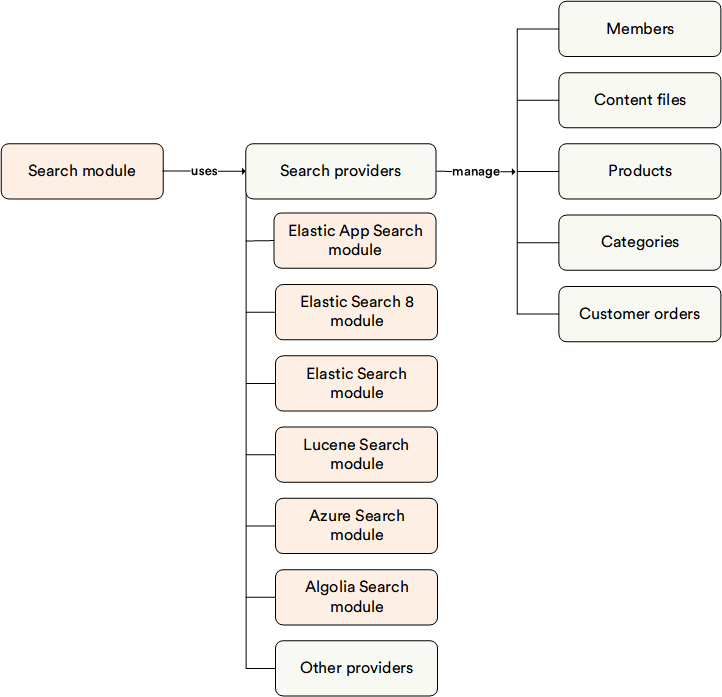
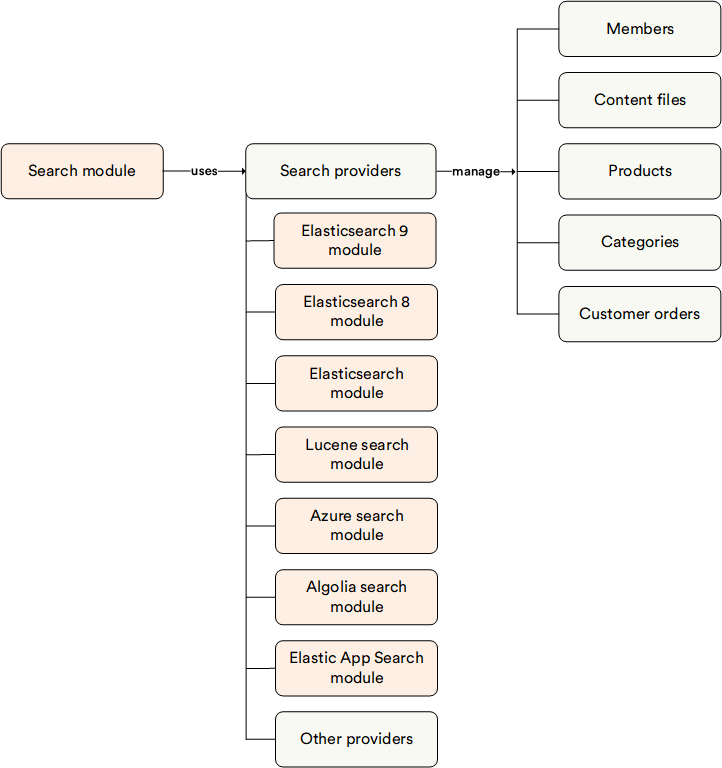
Sprinte 27-13 updates

diff --git a/storefront/developer-guide/docs/spa-architecture-for-seo-and-404-handling.md b/storefront/developer-guide/docs/spa-architecture-for-seo-and-404-handling.md
@@ -1,0 +1,102 @@
+# SPA Architecture for SEO and 404 Handling
+
+Virto Commerce Storefront is built as a Single Page Application (SPA) using Vue.js. This architecture provides fast navigation and app-like responsiveness while maintaining SEO compatibility through a combination of clean URLs, dynamic rendering, and fallback routing.
+
+The Virto SPA architecture loads a single **index.html** file and dynamically renders content using GraphQL. Static assets such as JavaScript, CSS, images, and sitemap files are served directly by the CDN or static content server.
+
+The request flow is as follows:
+
+1. If a URL matches a static file, that file is returned.
+1. If not, the request is routed to **index.html** with an HTTP 200 status.
+1. The Vue app interprets the path (via the HTML5 History API) and renders the correct page content (e.g., **/category/widgets**).
+
+This enables clean, shareable URLs and allows users to navigate or refresh pages without breaking.
+
+![SPA Frontend architecture](media/frontend-application-architecture.png)
+
+It provides the following benefits:
+
+* Clean URLs using history mode
+* Deep linking and bookmarking
+* Fast client-side navigation
+
+!!! note
+    Google recommends using the History API for SPAs to enable crawlable URLs.
+
+
+## SEO and dynamic rendering with Prerender.io
+
+One challenge of SPAs is that search engine bots may not fully execute JavaScript, which limits content visibility. Virto solves this using [Prerender](https://prerender.io), a dynamic rendering solution that generates static HTML snapshots for bots. In other words, search engines see a **server-side rendered** version, while normal users get the client-side SPA. This hybrid approach delivers the best of both worlds: crawlers see meaningful HTML content (page titles, meta tags, product info), and users still enjoy a fast single-page experience. 
+
+This works as follows:
+
+* A reverse proxy (e.g., Nginx) sits in front of the storefront.
+* If a request comes from a known bot (Googlebot, Facebook, etc.), it is routed to Prerender.
+* Prerender returns a fully rendered HTML version of the page.
+* Normal users continue to get the SPA experience.
+
+This hybrid approach ensures bots receive meaningful content while keeping performance high for users.
+<br>
+
+![Readmore](media/readmore.png){: width="25"} [Setting up Prerender.io with Azure Application Gateway](../../../platform/developer-guide/Tutorials-and-How-tos/How-tos/setting-up-prerender-io-with-azure-app-gateway)
+<br>
+
+It provides the following benefits:
+
+* Full HTML content for bots (title, meta, schema).
+* No major changes required to the SPA architecture.
+* Simpler than full server-side rendering (SSR).
+
+
+## Handling 404s in SPA
+
+Because Virto always serves **index.html** even for unknown URLs, the HTTP response is always 200 — even when the page doesn't exist. The Vue app handles these cases and displays a custom 404 page (e.g., the CMS page with slug **/404**). However, that error page is a **soft 404**: the browser shows an error message, but the server has already sent a 200 OK status. This is a common SPA behavior. It ensures the user sees an error page (and can navigate from it), but from the server’s point of view the request was fulfilled. 
+
+Virto’s current SPA setup can’t immediately send a 404 status from the server for a missing route, because that would break the SPA flow (the load balancer simply forwarded the request to the app). In practice, when a page isn’t found the SPA shows the 404 content, but Googlebot still sees a 200 response – what Google calls a soft 404. 
+
+Google suggests workarounds: for example, after determining content is missing, use a client redirect to a dedicated error URL that does return 404 (for instance, **/not-found** handled by the server) or add a **noindex** meta tag on the error page. 
+
+![Workaround](media/workarounds.png)
+
+!!! note
+    Virto Cloud is working on support for server-side HTTP 404 responses based on route handling rules (e.g., custom Nginx logic).
+
+
+## Tracking and fixing broken links
+
+Broken links harm SEO and user experience. Virto provides tools to detect and manage them effectively:
+
+* [Tracking with Google Analytics 4.](#tracking-with-google-analytics-4)
+* [Using broken links management tool.](#using-broken-links-management-tool)
+
+### Tracking with Google Analytics 4
+
+* GA4 automatically logs pageviews, including visits to your 404 page
+* Use a unique title (e.g., "Page not found") to filter 404s
+* Use GA4 Engagement reports to identify broken URLs
+
+In practice, you’d filter GA4 by the 404 page’s title or URL, revealing which missing-URL users (or bots) tried to access. [Analytics Mania](https://www.analyticsmania.com/post/ga4-404-error-tracking) and [MeasureSchool](https://measureschool.com/track-404-ga4) have guides on using GA4 for 404 tracking that explain this in detail.
+
+### Using broken links management tool
+
+[This tool](../../../platform/user-guide/seo/managing-broken-links) logs any 404 hits and lets the team mark each one for action. For example, you can ignore harmless 404s, or set up 301/302 redirects. Virto supports internal redirects (redirecting to another page in the store) or external redirects. There’s also an option to use load balancer (or CDN) rules: for certain legacy URLs you can force a real HTTP 404 instead of letting the SPA catch it, if needed for SEO or compliance. 
+
+In short, the workflow is: 
+
+1. Track broken links via GA4.
+1. Review them in the tool.
+1. Either ignore, redirect to a new URL, or explicitly return a 404 status. 
+
+This flexibility helps marketing teams fix SEO issues without changing code.
+
+
+## Alignment with best practices
+
+Overall, Virto’s SPA frontend aligns with current SEO best practices for modern sites. By using clean URLs (History API) and ensuring every page is reachable at a unique path, it meets Google’s recommendation to avoid hash-based routes. By integrating a pre-rendering service, it gives crawlers HTML content to index without sacrificing user experience. The SPA’s fallback to a 200-status index page is a known compromise, but Google explicitly acknowledges this pattern and suggests mitigating it via redirects or noindex tags. With GA4 and Virto’s broken-links tool, teams have visibility into **soft 404s** and can correct them through redirects (which is actually recommended over leaving **soft 404s**) or by adjusting their content.
+
+Virto’s frontend serves static files directly and routes all other requests through the SPA (**index.html**), giving smooth in-app navigation and shareable deep links. [Prerender](http://prerender.io/)  is used to intercept bots and serve SEO-friendly HTML snapshots. Unresolved URLs still return 200+SPA 404 content (a soft 404) by default, but tools like GA4 tracking and the built-in broken links manager help teams detect and handle these cases (via redirects or ignore rules). This architecture strikes a balance between an app-like storefront and SEO needs, following guidelines from Google and SEO experts.
+
+
+## Avoiding stale templates
+
+To prevent outdated **.html** templates from being served, make sure your custom module uses the updated **webpack.config.js**. The latest setup embeds Vue templates directly into **app.js**, ensuring that the SPA always renders fresh, up-to-date content—critical for both user experience and SEO rendering via services like Prerender.

diff --git a/platform/user-guide/docs/search/overview.md b/platform/user-guide/docs/search/overview.md
@@ -11,7 +11,8 @@ The **Search** module (called **Search Index** in the Platform menu) provides a 
 
 The Search module defines common abstractions for indexed search functionality across various search engines, providing flexibility and scalability for e-commerce search solutions. The Virto Commerce Platform is search provider agnostic, allowing different search modules to be installed separately to better meet user preferences. Create a custom search provider to integrate with the search engine or choose from a range of well-know search engines:
 
-* [Elastic Search 8](https://github.com/VirtoCommerce/vc-module-elastic-search-8): Version compatible with Elasticsearch 8.x. For driving innovation like semantic and hybrid search.
+* [Elasticsearch 9](https://github.com/VirtoCommerce/vc-module-elastic-search-9): Latest-generation provider built on the official .NET Elasticsearch client, compatible with Elasticsearch 9.x and 10.x (including Elastic Cloud deployments).
+* [Elasticsearch 8](https://github.com/VirtoCommerce/vc-module-elastic-search-8): Supports [Elasticsearch 8.x and 9.x](../../../developer-guide/Fundamentals/Indexed-Search/integration/elastic-search-8). 
 * [Elastic App Search](https://github.com/VirtoCommerce/vc-module-elastic-app-search): Preferred search provider with rich no-code search customization and analytics tools.
 * [Lucene](https://github.com/VirtoCommerce/vc-module-lucene-search): Recommended for local development mode.
 * [Elastic Search](https://github.com/VirtoCommerce/vc-module-elastic-search): Version compatible with Elasticsearch 7.x.

diff --git a/platform/user-guide/docs/elastic-search-8/overview.md b/platform/user-guide/docs/elastic-search-8/overview.md
@@ -1,6 +1,6 @@
-# Elastic Search 8
+# Elasticsearch 8
 
-The Virto Commerce **Elastic Search 8** module serves as a search engine for the Search module. It is the most commonly used search engine among Virto Commerce users.
+The Virto Commerce **Elasticsearch 8** module serves as a search engine for the Search module. It is the most commonly used search engine among Virto Commerce users.
 
 [![Source code](media/source_code.png)](https://github.com/VirtoCommerce/vc-module-elastic-search-8/)
 
@@ -8,13 +8,13 @@ The Virto Commerce **Elastic Search 8** module serves as a search engine for the
 
 ## Key features
 
-With the Elastic Search 8 module, you can perform:
+With the Elasticsearch 8 module, you can perform:
 
 * Full-text search with new .NET client for Elasticsearch.
 * [Semantic search](../../../developer-guide/Fundamentals/Indexed-Search/integration/semantic-search).
 * Hybrid mode search.
 * Third party ML models support.
 
-The diagram below illustrates the functionality of the Elastic Search 8 module:
+The diagram below illustrates the functionality of the Elasticsearch 9 module:
 
 ![Key entities](media/key-entities.png)

diff --git a/platform/developer-guide/docs/Fundamentals/Indexed-Search/integration/elastic-search-8.md b/platform/developer-guide/docs/Fundamentals/Indexed-Search/integration/elastic-search-8.md
@@ -12,7 +12,7 @@ The module supports the following deployment options:
 
 !!! info
 
-    As of version [3.815.0](https://github.com/VirtoCommerce/vc-module-elastic-search-8/releases/tag/3.815.0), the Virto Commerce Elasticsearch module supports Elasticsearch 8 and 9.
+    As of version [3.815.0](https://github.com/VirtoCommerce/vc-module-elastic-search-8/releases/tag/3.815.0), the Virto Commerce Elasticsearch 8 module supports Elasticsearch 8 and 9.
 
     Virto Commerce follows the official Elasticsearch language client compatibility guidelines: language clients are **forward compatible** across minor versions within the same or next major Elasticsearch version.
 
@@ -65,6 +65,6 @@ The provider performs full-text keyword searches on documents, optionally with f
 ********
 
 <div style="display: flex; justify-content: space-between;">
-    <a href="../../search/faceted-search">← Faceted search</a>
+    <a href="../elastic-search-9">← Elasticsearch 9 overview</a>
     <a href="../semantic-search">Semantic search →</a>
 </div>

diff --git a/platform/developer-guide/docs/Fundamentals/PageBuilder/asset.md b/platform/developer-guide/docs/Fundamentals/PageBuilder/asset.md
@@ -12,7 +12,18 @@ The **AssetFile** object serves as the **data model** for file upload requests a
 
 When uploading assets, each file is converted to an **AssetFile** and passed to the upload service, which is configured via the **settings.json** file.
 
-**Example:** 
+## Interface
+
+```ts
+export interface AssetFile extends File {
+    data?: any;                // Optional metadata from the component's descriptor
+    url?: string;              // Full URL where the file is stored
+    previewUrl: string | null; // URL for previewing the file (e.g., image thumbnail)
+    assetName: string;         // Original or assigned name of the file
+}
+```
+
+## Example 
 
 ```json title="settings.json"
 {
@@ -51,3 +62,13 @@ This response is then mapped to:
 ```
 
 which is assigned to the `url` field of the **AssetFile**.
+
+
+<br>
+<br>
+********
+
+<div style="display: flex; justify-content: space-between;">
+    <a href="../component-context">← Component context </a>
+    <a href="../calendar">Controls →</a>
+</div>

diff --git a/platform/user-guide/docs/elastic-search-9/overview.md b/platform/user-guide/docs/elastic-search-9/overview.md
@@ -1,0 +1,20 @@
+# Elasticsearch 9
+
+The Virto Commerce **Elasticsearch 9** module serves as a search engine for the Search module. It is the latest-generation provider built on the official .NET Elasticsearch client, compatible with Elasticsearch 9.x and 10.x (including Elastic Cloud deployments).
+
+[![Source code](media/source_code.png)](https://github.com/VirtoCommerce/vc-module-elastic-search-9/)
+
+[![Latest release](media/latest_release.png)](https://github.com/VirtoCommerce/vc-module-elastic-search-9/releases)
+
+## Key features
+
+With the Elasticsearch 9 module, you can perform:
+
+* Full-text search with new .NET client for Elasticsearch.
+* [Semantic search](../../../developer-guide/Fundamentals/Indexed-Search/integration/semantic-search).
+* Hybrid mode search.
+* Third party ML models support.
+
+The diagram below illustrates the functionality of the Elasticsearch 9 module:
+
+![Key entities](media/key-entities.png)

diff --git a/platform/user-guide/docs/elastic-search-9/settings.md b/platform/user-guide/docs/elastic-search-9/settings.md
@@ -1,9 +1,9 @@
 # Settings
 
-To open the **Elasticsearch 8** module settings:
+To open the **Elasticsearch 9** module settings:
 
 1. Click **Settings** in the main menu.
-1. In the search field of the next blade, type **Elasticsearch8** to find the settings related to the module.
+1. In the search field of the next blade, type **Elasticsearch9** to find the settings related to the module.
 1. Click **General** to configure the following settings in the next blade:
 
     ![General settings](media/general-settings.png)

diff --git a/platform/user-guide/docs/pricing/adding-new-assignment.md b/platform/user-guide/docs/pricing/adding-new-assignment.md
@@ -20,3 +20,7 @@ To add a new price list assignment:
 	
 	Read more about it in the [Publish conditions guide](../marketing/publish-conditions.md).
 
+!!! note
+	Contract managers and merchandisers can control price list assignment validity through contract dates. The start and end dates of a contract automatically define the active period of the associated price list assignment. This ensures that pricing is applied only during the contract’s validity and is deactivated when the contract expires
+
+

diff --git a/platform/developer-guide/docs/Fundamentals/Indexed-Search/integration/semantic-search-es9.md b/platform/developer-guide/docs/Fundamentals/Indexed-Search/integration/semantic-search-es9.md
@@ -364,6 +364,6 @@ Debug mode increases log verbosity and may expose sensitive data. Use it only du
 ********
 
 <div style="display: flex; justify-content: space-between;">
-    <a href="../elastic-search-8">← Elasticsearch 8 overview</a>
-    <a href="../elastic-app-search-overview">Elastic App Search →</a>
+    <a href="../elastic-search-9">← Elasticsearch 9 overview</a>
+    <a href="../elastic-search-8">Elasticsearch 8 overview →</a>
 </div>

diff --git a/platform/developer-guide/docs/Fundamentals/Indexed-Search/search/faceted-search.md b/platform/developer-guide/docs/Fundamentals/Indexed-Search/search/faceted-search.md
@@ -51,5 +51,5 @@ To edit the selected property, click on it and configure the following fields:
 
 <div style="display: flex; justify-content: space-between;">
     <a href="../overview">← Search. Overview</a>
-    <a href="../../integration/elastic-search-8">Search providers integration. Elastic Search 8 →</a>
+    <a href="../../integration/elastic-search-9">Search providers integration. Elastic Search 9 →</a>
 </div>

diff --git a/platform/developer-guide/docs/Fundamentals/Indexed-Search/integration/elastic-search-9.md b/platform/developer-guide/docs/Fundamentals/Indexed-Search/integration/elastic-search-9.md
@@ -41,5 +41,5 @@ The provider performs full-text keyword searches on documents, optionally with f
 
 <div style="display: flex; justify-content: space-between;">
     <a href="../../search/faceted-search">← Faceted search</a>
-    <a href="../semantic-search">Semantic search →</a>
+    <a href="../semantic-search-es9">Semantic search →</a>
 </div>

diff --git a/platform/developer-guide/docs/GraphQL-Storefront-API-Reference-xAPI/Catalog/examples/full-text-search.md b/platform/developer-guide/docs/GraphQL-Storefront-API-Reference-xAPI/Catalog/examples/full-text-search.md
@@ -84,3 +84,6 @@ The following product properties are stored in the `__content` field and are sea
       }
     }
     ```
+
+!!! note
+    The `cultureName` parameter is required for retrieving localized fields such as name, description, etc. If it is not passed, the request will return an error like **Cannot resolve field `name`**.
